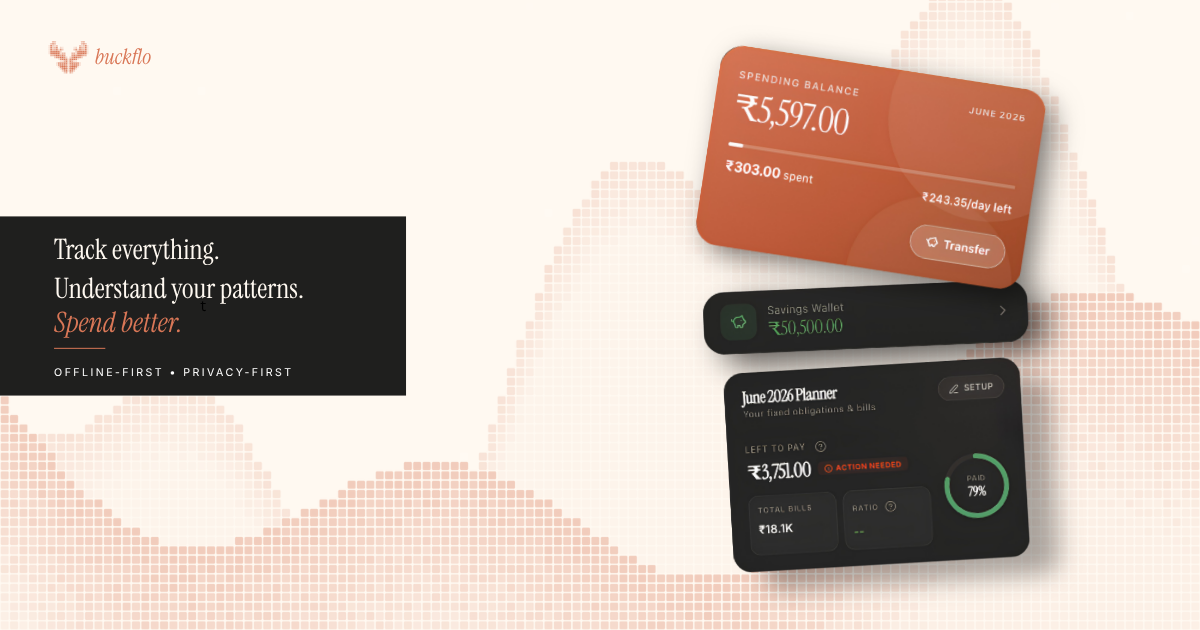
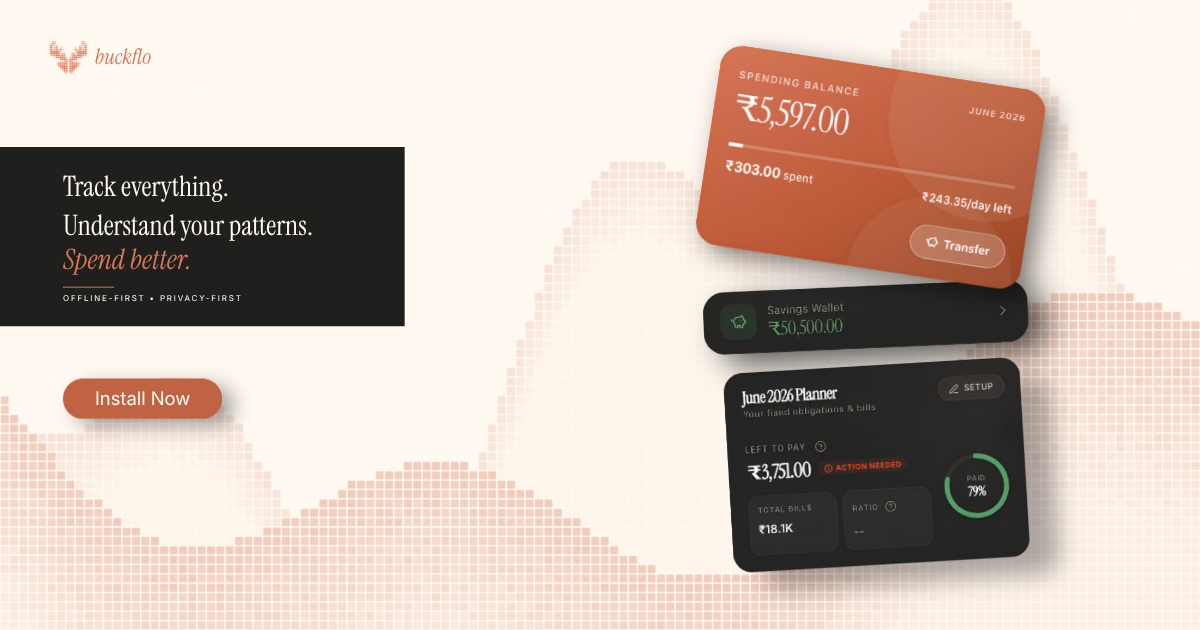
feat: add og:site_name meta tag and update social media preview image

Changed region(s): [[0.0, 0.2111, 0.3392, 0.6937]]

diff --git a/index.html b/index.html
@@ -15,6 +15,8 @@
     <meta property="og:title" content="Buckflo — Personal Expense Tracker" />
     <meta property="og:description" content="Personal expense tracker — log daily transactions, track your budget, and manage two bank accounts offline." />
     <meta property="og:image" content="/og-image.png" />
+    <meta property="og:site_name" content="buckflo" />
+    
 
     <!-- Twitter -->
     <meta name="twitter:card" content="summary_large_image" />